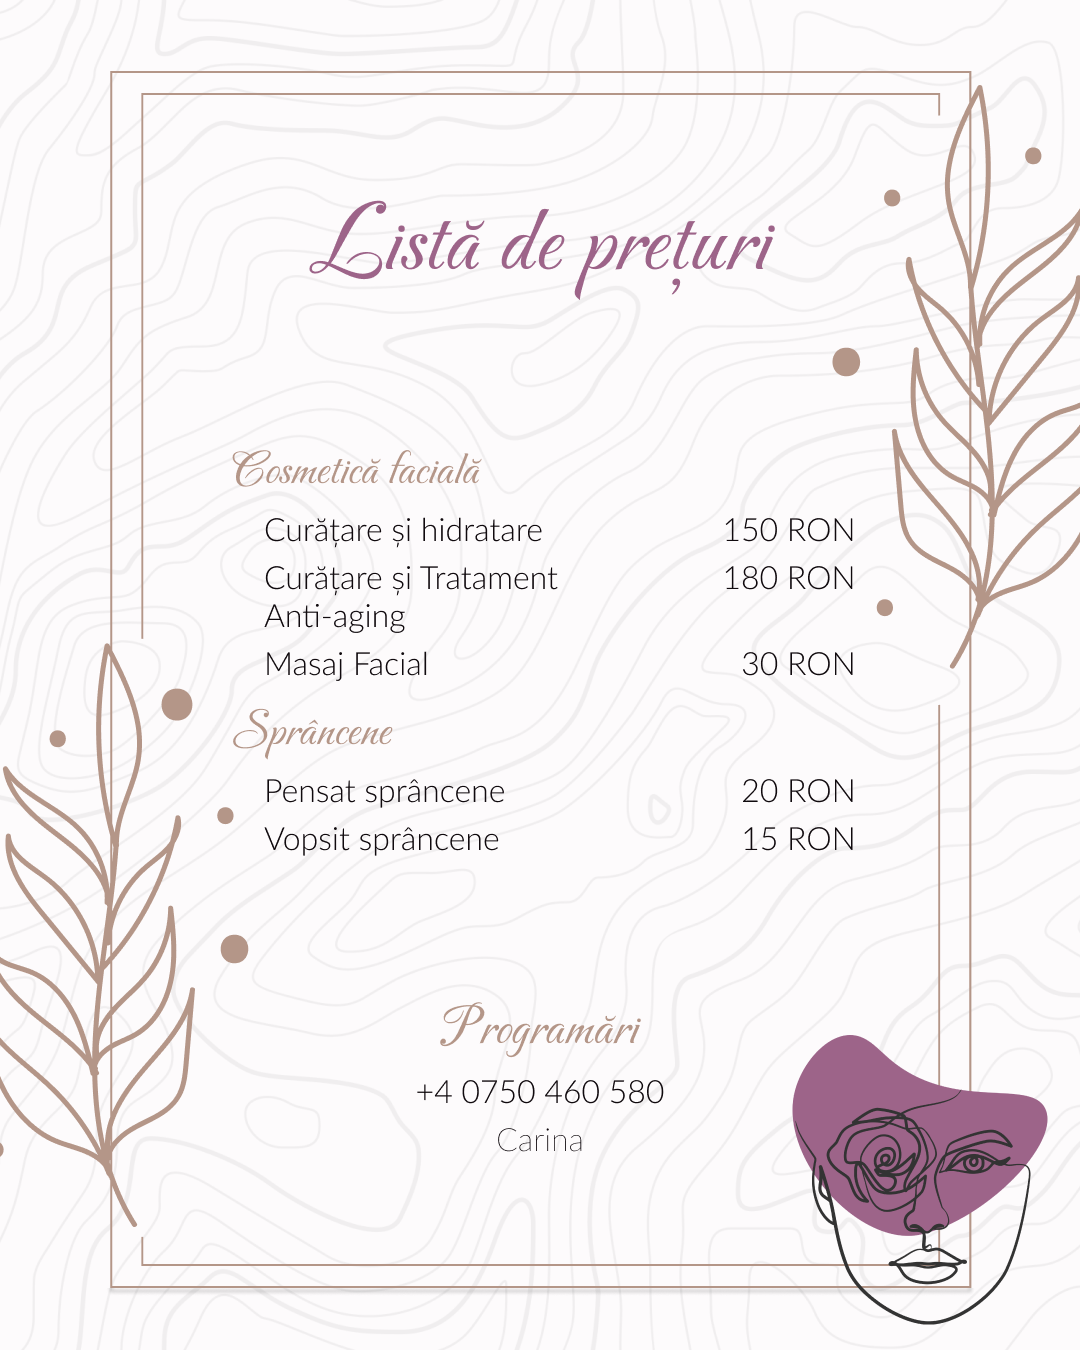
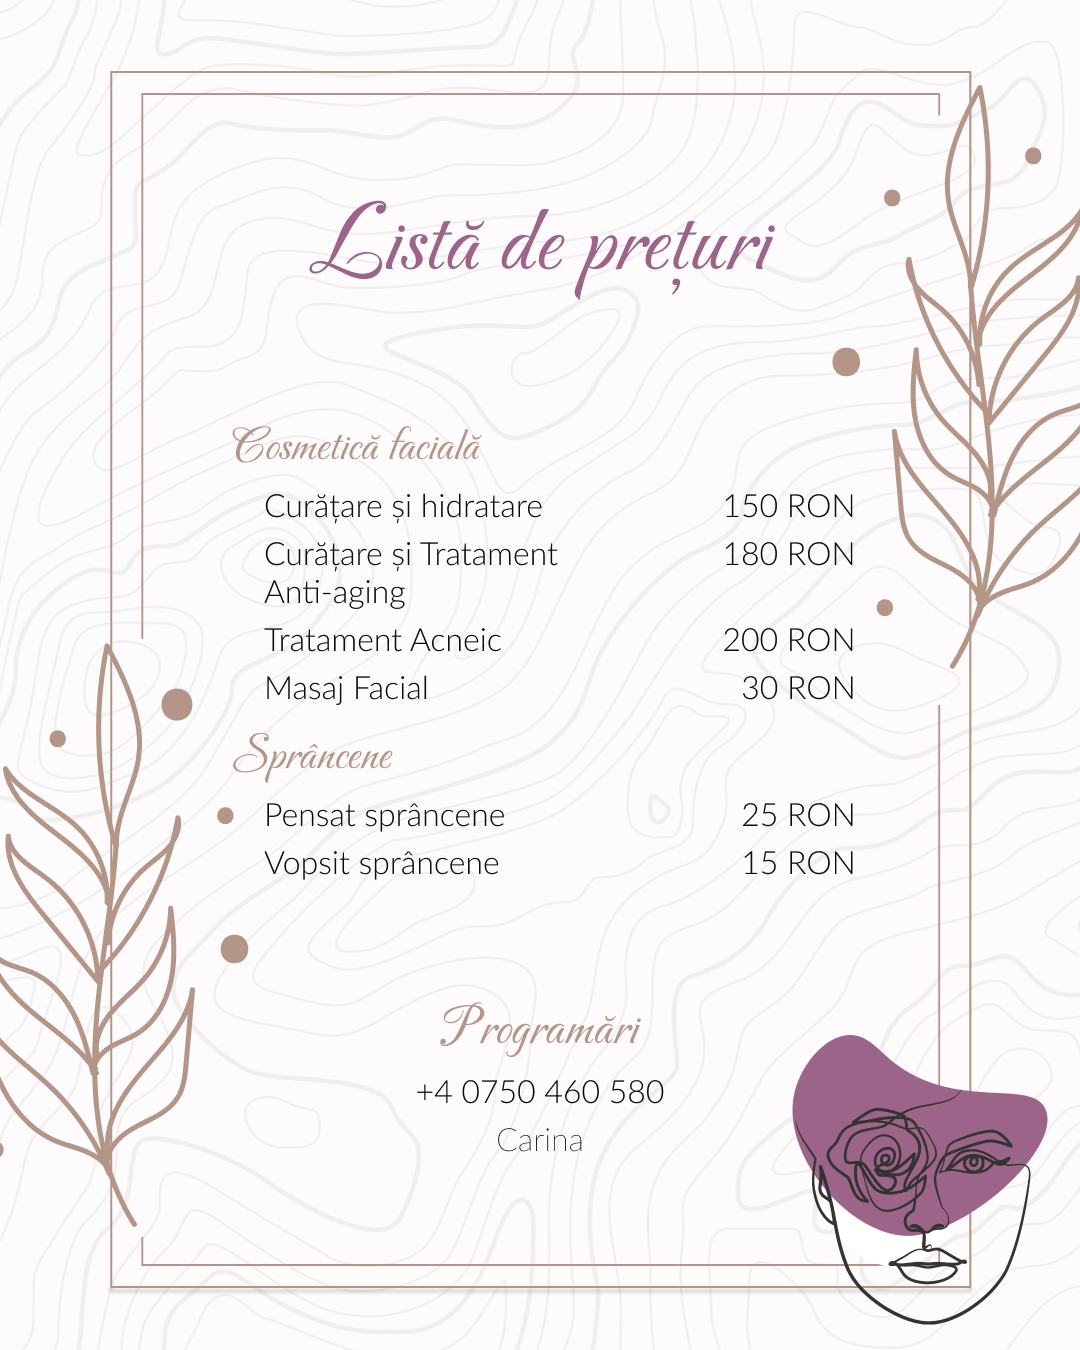
updated price list

diff --git a/README.md b/README.md
@@ -1,43 +1,5 @@
-# Astro Starter Kit: Minimal
+# Site Info
 
-```sh
-pnpm create astro@latest -- --template minimal
-```
+## Price List
 
-> 🧑🚀 **Seasoned astronaut?** Delete this file. Have fun!
-
-## 🚀 Project Structure
-
-Inside of your Astro project, you'll see the following folders and files:
-
-```text
-/
-├── public/
-├── src/
-│   └── pages/
-│       └── index.astro
-└── package.json
-```
-
-Astro looks for `.astro` or `.md` files in the `src/pages/` directory. Each page is exposed as a route based on its file name.
-
-There's nothing special about `src/components/`, but that's where we like to put any Astro/React/Vue/Svelte/Preact components.
-
-Any static assets, like images, can be placed in the `public/` directory.
-
-## 🧞 Commands
-
-All commands are run from the root of the project, from a terminal:
-
-| Command                   | Action                                           |
-| :------------------------ | :----------------------------------------------- |
-| `pnpm install`             | Installs dependencies                            |
-| `pnpm dev`             | Starts local dev server at `localhost:4321`      |
-| `pnpm build`           | Build your production site to `./dist/`          |
-| `pnpm preview`         | Preview your build locally, before deploying     |
-| `pnpm astro ...`       | Run CLI commands like `astro add`, `astro check` |
-| `pnpm astro -- --help` | Get help using the Astro CLI                     |
-
-## 👀 Want to learn more?
-
-Feel free to check [our documentation](https://docs.astro.build) or jump into our [Discord server](https://astro.build/chat).
+To update the price list, just paste in your pictures to the `src/assets/price-list` folder
